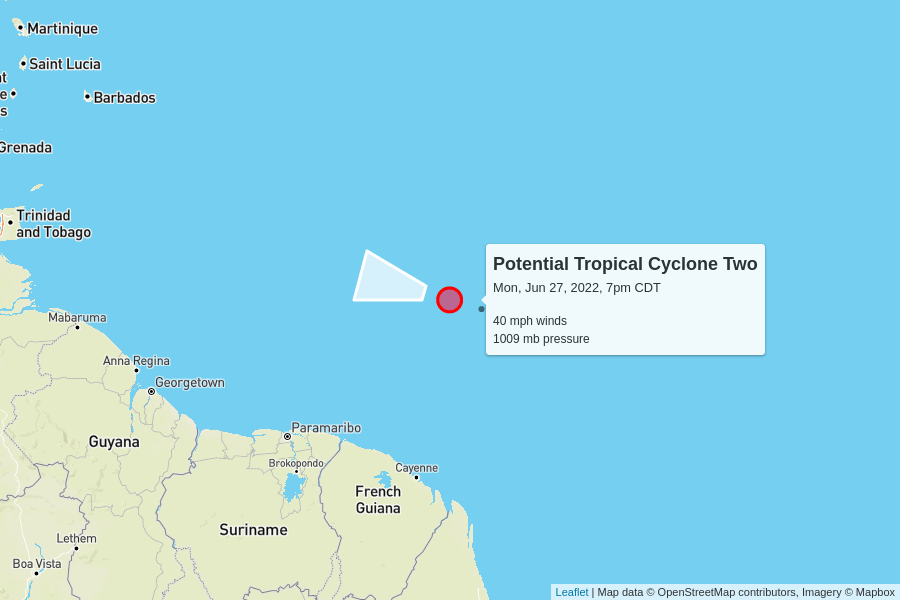
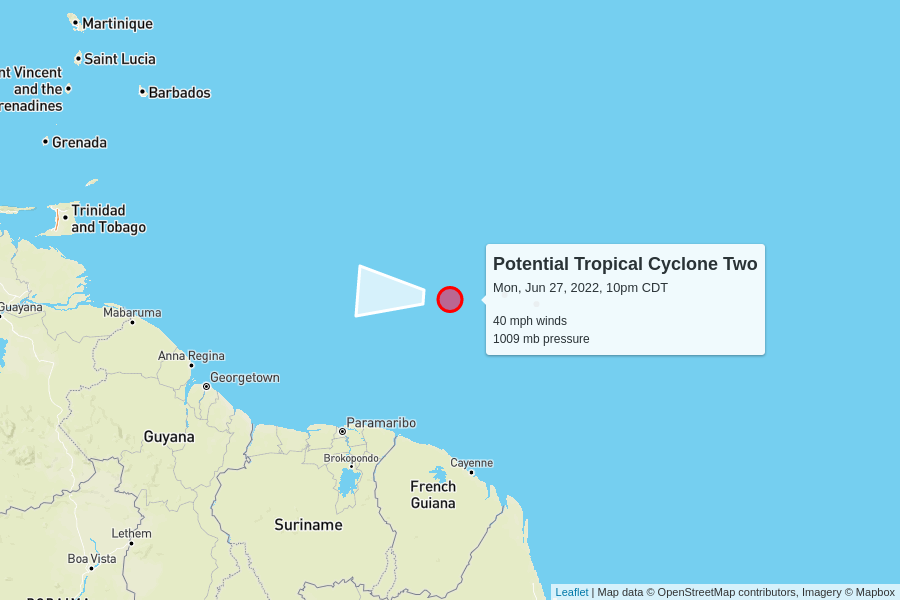
automatic update

diff --git a/docs/index.html b/docs/index.html
@@ -100,7 +100,7 @@
         <td colspan="6" class="storm category-0" >
           <h2>
             Potential Tropical Cyclone Two
-            <p class="updated">last updated <span data-time>2022-06-28T00:00:00.000Z</span></p>
+            <p class="updated">last updated <span data-time>2022-06-28T03:00:00.000Z</span></p>
           </h2>
         </td>
       </tr>
@@ -118,9 +118,9 @@
         <td>40 mph</td>
         <td>1009 mb</td>
         <td>
-          18 mph to the west-northwest
+          17 mph to the west
           <br/>
-          <span style="display: inline-block; font-size: 1.5em; transform: rotate(285deg);">↑</span>
+          <span style="display: inline-block; font-size: 1.5em; transform: rotate(275deg);">↑</span>
         </td>
         <td><a href="https://raw.githubusercontent.com/mgwalker/atlantic-hurricanes/main/data/csv/AL022022.csv">AL022022.csv</a></td>
         <td><a href="https://www.nhc.noaa.gov/archive/2022/TWO.shtml?">NHC advisories</a></td>
